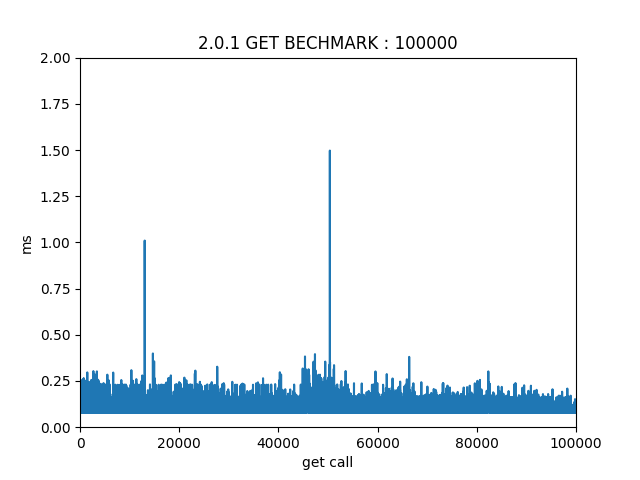
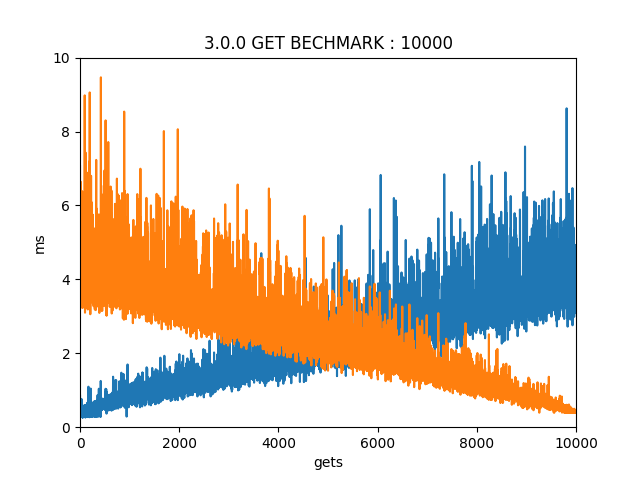
perf updates and bug fixes

diff --git a/test/bench.py b/test/bench.py
@@ -17,7 +17,7 @@ import pkg_resources
 #read, ops/s: 16784.0337416
 
 DIR_NAME = "TestIndexerPerf"
-COG_VERSION = '2.0.1'
+COG_VERSION = '3.0.0'
 
 class TestIndexerPerf(unittest.TestCase):
 
@@ -35,45 +35,60 @@ class TestIndexerPerf(unittest.TestCase):
         dictConfig(config.logging_config)
 
         logger = logging.getLogger()
-        config.INDEX_CAPACITY = 1000000
+        config.INDEX_CAPACITY = 100
         table = Table("testdb","test_table","test_xcvzdfsadx", config, logger)
         store = table.store
         indexer = table.indexer
-        max_range=100000
+        max_range=10000
 
         insert_perf=[]
 
         key_list = []
+        total_seconds_put = 0.0
         for i in range(max_range):
             key= ''.join(random.choice(string.ascii_uppercase + string.digits) for _ in range(10))
             value= ''.join(random.choice(string.ascii_uppercase + string.digits) for _ in range(100))
             expected_data = Record(key,value)
             key_list.append(key)
+            start_time = timeit.default_timer()
             position=store.save(expected_data)
             indexer.put(expected_data.key,position,store)
+            elapsed = timeit.default_timer() - start_time
+            insert_perf.append(elapsed * 1000.0)  # to ms
+            total_seconds_put += elapsed
             print("Loading data progress: " + str(i * 100.0 / max_range) + "%", end="\r")
         print("\n total index files: " + str(len(indexer.index_list)))
 
+        plt.xlim([-1, max_range])
+        plt.ylim([0, 10])
+        plt.xlabel("puts")
+        plt.ylabel("ms")
+        plt.plot(insert_perf)
+        plt.title(COG_VERSION + " PUT BECHMARK : " + str(max_range), fontsize=12)
+        plt.savefig("put_bench.png")
+        print("\n ops/s: " + str(max_range / total_seconds_put))
+        print('\n num index files: ' + str(len(table.indexer.index_list)))
 
-        total_seconds=0.0
+        get_perf = []
+        total_seconds_get=0.0
         i = 0
         for key in key_list:
             start_time = timeit.default_timer()
             indexer.get(key, store)
             elapsed = timeit.default_timer() - start_time
-            insert_perf.append(elapsed*1000.0) #to ms
-            total_seconds += elapsed
+            get_perf.append(elapsed*1000.0) #to ms
+            total_seconds_get += elapsed
             print("get test progress: " + str(i * 100.0 / max_range) + "%", end="\r")
             i += 1
 
         plt.xlim([-1,max_range])
-        plt.ylim([0,2])
-        plt.xlabel("get call")
+        plt.ylim([0,10])
+        plt.xlabel("gets")
         plt.ylabel("ms")
-        plt.plot(insert_perf)
+        plt.plot(get_perf)
         plt.title(COG_VERSION + " GET BECHMARK : "+ str(max_range) , fontsize=12)
         plt.savefig("get_bench.png")
-        print("\n ops/s: "+str(max_range/total_seconds))
+        print("\n ops/s: "+str(max_range/total_seconds_get))
         print('\n num index files: '+str(len(table.indexer.index_list)))
         table.close()
 

diff --git a/cog/core.py b/cog/core.py
@@ -4,7 +4,7 @@ import os
 import os.path
 import sys
 import logging
-# from profilehooks import profile
+from profilehooks import profile
 import xxhash
 
 class TableMeta:
@@ -193,27 +193,17 @@ class Index:
         self.db = open(self.name, 'r+b')
         self.db_mem = mmap.mmap(self.db.fileno(), 0)
 
-        self.load = 0
         self.db_mem.seek(0)
         current_block = self.db_mem.read(self.config.INDEX_BLOCK_LEN)
-        #computes current load on index file.
-        while len(current_block) != 0:
-            if current_block != self.empty_block:
-                self.load += 1
-            current_block = self.db_mem.read(self.config.INDEX_BLOCK_LEN)
-
-        # self.db_mem.seek(0)
 
     def close(self):
         self.db.close()
 
-    def get_load(self):
-        return self.load
 
     def get_index_key(self, int_store_position):
         return str(int_store_position).encode().rjust(self.config.INDEX_BLOCK_LEN)
 
-
+    @profile
     def put(self, key, store_position, store):
         """
         key chain
@@ -279,7 +269,7 @@ class Index:
     def cog_hash(self, string):
         return xxhash.xxh32(string, seed=2).intdigest() % self.config.INDEX_CAPACITY
 
-    #@profile
+    @profile
     def get(self, key, store):
         self.logger.debug("GET: Reading index: " + self.name)
         index_position, raw_hash = self.get_index(key)
@@ -409,17 +399,23 @@ class Store:
         return self.__read_until(b'\x1E')
 
     def __read_until(self, separator):
-        data = []
-        c = self.store_file.read(1)
-        while c != separator:
-            data.append(c)
-            c = self.store_file.read(1)
-            if len(c) == 0:
-                self.logger.debug("EOF store file! Data read error.")
-                return None
-        if c == separator:
-            data.append(c) # append last value of c if is the separator
-        return b''.join(data)
+        data = None
+        while True:
+            chunk = self.store_file.read(self.config.STORE_READ_SIZE)
+            if len(chunk) == 0:
+                raise Exception("EOF store file! Data read error.")
+            if separator in chunk:
+                chunk = chunk.split(separator)[0]
+                if data is None:
+                    data = chunk
+                else:
+                    data += chunk
+                break
+            if data is None:
+                data = chunk
+            else:
+                data += chunk
+        return data
 
 class Indexer:
     '''
@@ -461,7 +457,7 @@ class Indexer:
             resp = self.live_index.put(key, store_position, store)
             self.logger.debug("Key: "+key+" indexed in: "+self.live_index.name)
 
-    #@profile
+    @profile
     def get(self, key, store):
         if len(self.index_list) > 1:
             self.logger.info("multiple index: " + str(len(self.index_list)))

diff --git a/test/test_torque.py b/test/test_torque.py
@@ -107,12 +107,12 @@ class TorqueTest(unittest.TestCase):
         actual = TorqueTest.g.v("<bob>").out(["<follows>zzz", "<status>zzz"]).tag("source").all()
         self.assertTrue(ordered(expected) == ordered(actual))
 
-    # def test_torque_12(self):
-    #     expected = {'result': [{'id': '<bob>'}, {'id': '<dani>'}, {'id': '<emily>'}, {'id': '"cool_person"'}, {'id': '<greg>'}, {'id': '<fred>'}, {'id': '<alice>'}, {'id': '<charlie>'}]}
-    #     actual = TorqueTest.g.scan(3,'v')
-    #     self.assertTrue(3 == len(actual['result']))
-    #     with self.assertRaises(AssertionError):
-    #         TorqueTest.g.scan('v',3)
+    def test_torque_12(self):
+        expected = {'result': [{'id': '<bob>'}, {'id': '<dani>'}, {'id': '<emily>'}, {'id': '"cool_person"'}, {'id': '<greg>'}, {'id': '<fred>'}, {'id': '<alice>'}, {'id': '<charlie>'}]}
+        actual = TorqueTest.g.scan(3,'v')
+        self.assertTrue(3 == len(actual['result']))
+        with self.assertRaises(AssertionError):
+            TorqueTest.g.scan('v',3)
 
     def test_torque_13(self):
         expected = {'result': [{'id': '<greg>'}, {'id': '<dani>'}, {'id': '<bob>'}]}

diff --git a/test/test_index.py b/test/test_index.py
@@ -35,7 +35,6 @@ class TestIndex2(unittest.TestCase):
         index = Index(tablemeta, config, logger, 0)
         test_size = 30
         for i in range(test_size):
-            print("Index load: "+str(index.get_load()))
             key= ''.join(random.choice(string.ascii_uppercase + string.digits) for _ in range(10))
             value= ''.join(random.choice(string.ascii_uppercase + string.digits) for _ in range(100))
             expected_data = Record(key, value)

diff --git a/cog/config.py b/cog/config.py
@@ -12,6 +12,7 @@ INDEX_BLOCK_KEYBIT_LEN = int(INDEX_BLOCK_BASE_LEN/2)
 INDEX_BLOCK_LEN = INDEX_BLOCK_BASE_LEN + INDEX_BLOCK_KEYBIT_LEN
 INDEX_CAPACITY = 100003 # must be a prime number
 INDEX_LOAD_FACTOR = 80
+STORE_READ_SIZE = 64
 
 ''' TORQUE '''
 GRAPH_NODE_SET_TABLE_NAME = 'TOR_NODE_SET'

diff --git a/setup.py b/setup.py
@@ -1,7 +1,8 @@
 from setuptools import setup
 
+
 setup(name='cogdb',
-      version='2.1.0',
+      version='3.0.0',
       description='Persistent Embedded Graph Database',
       url='http://github.com/arun1729/cog',
       author='Arun Mahendra',
